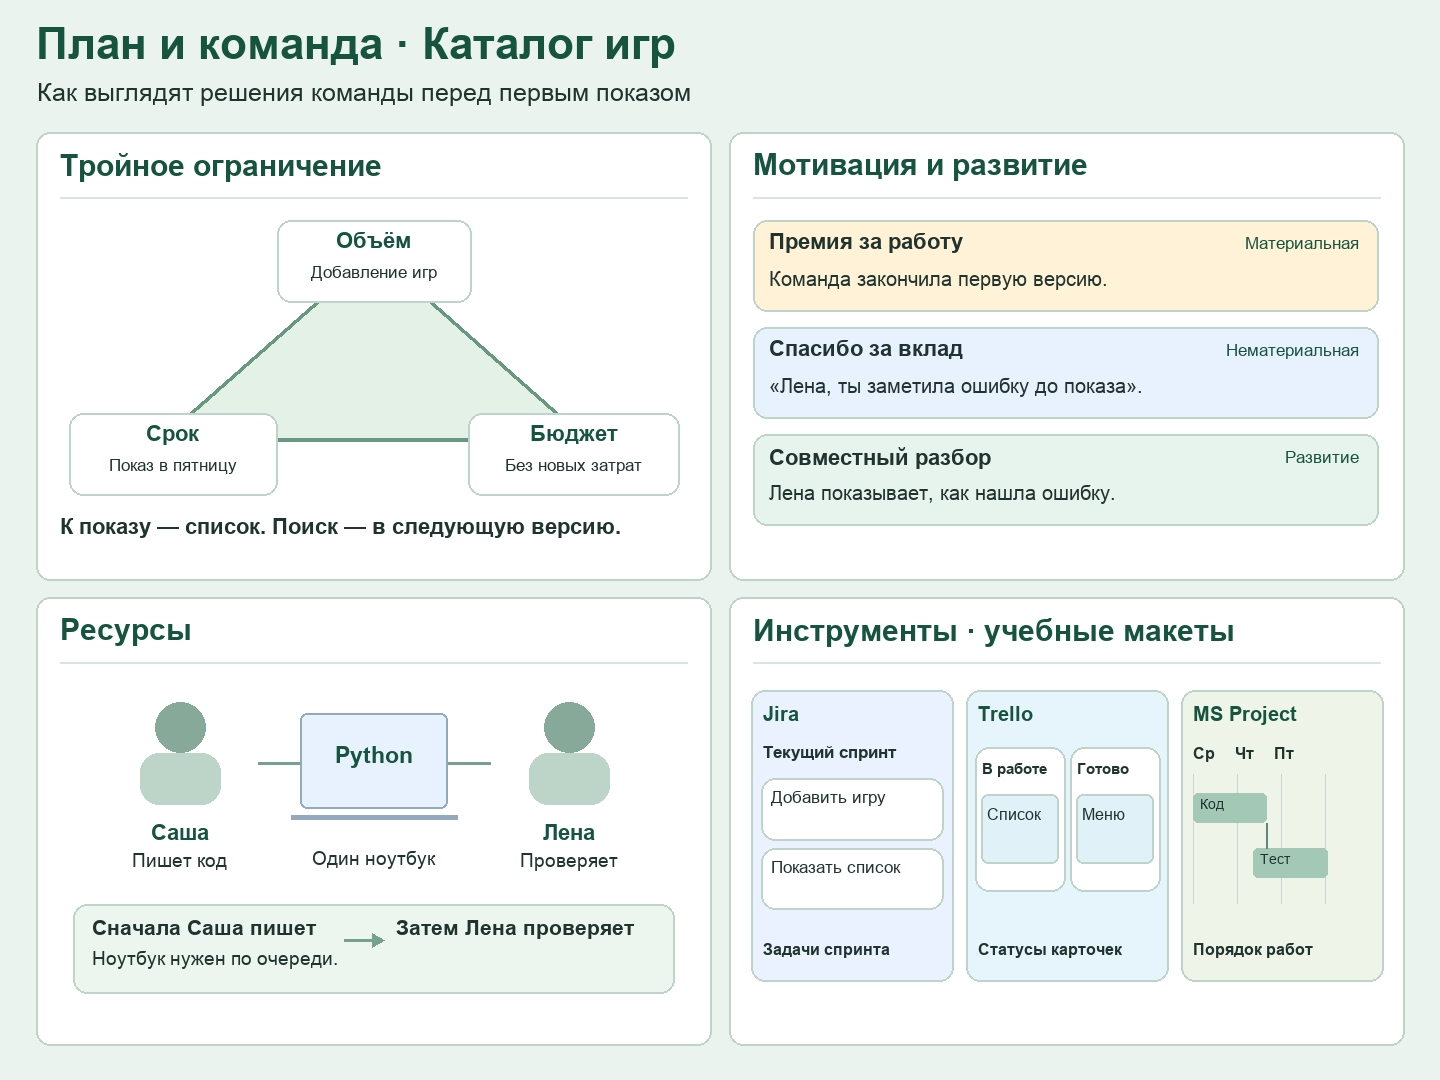
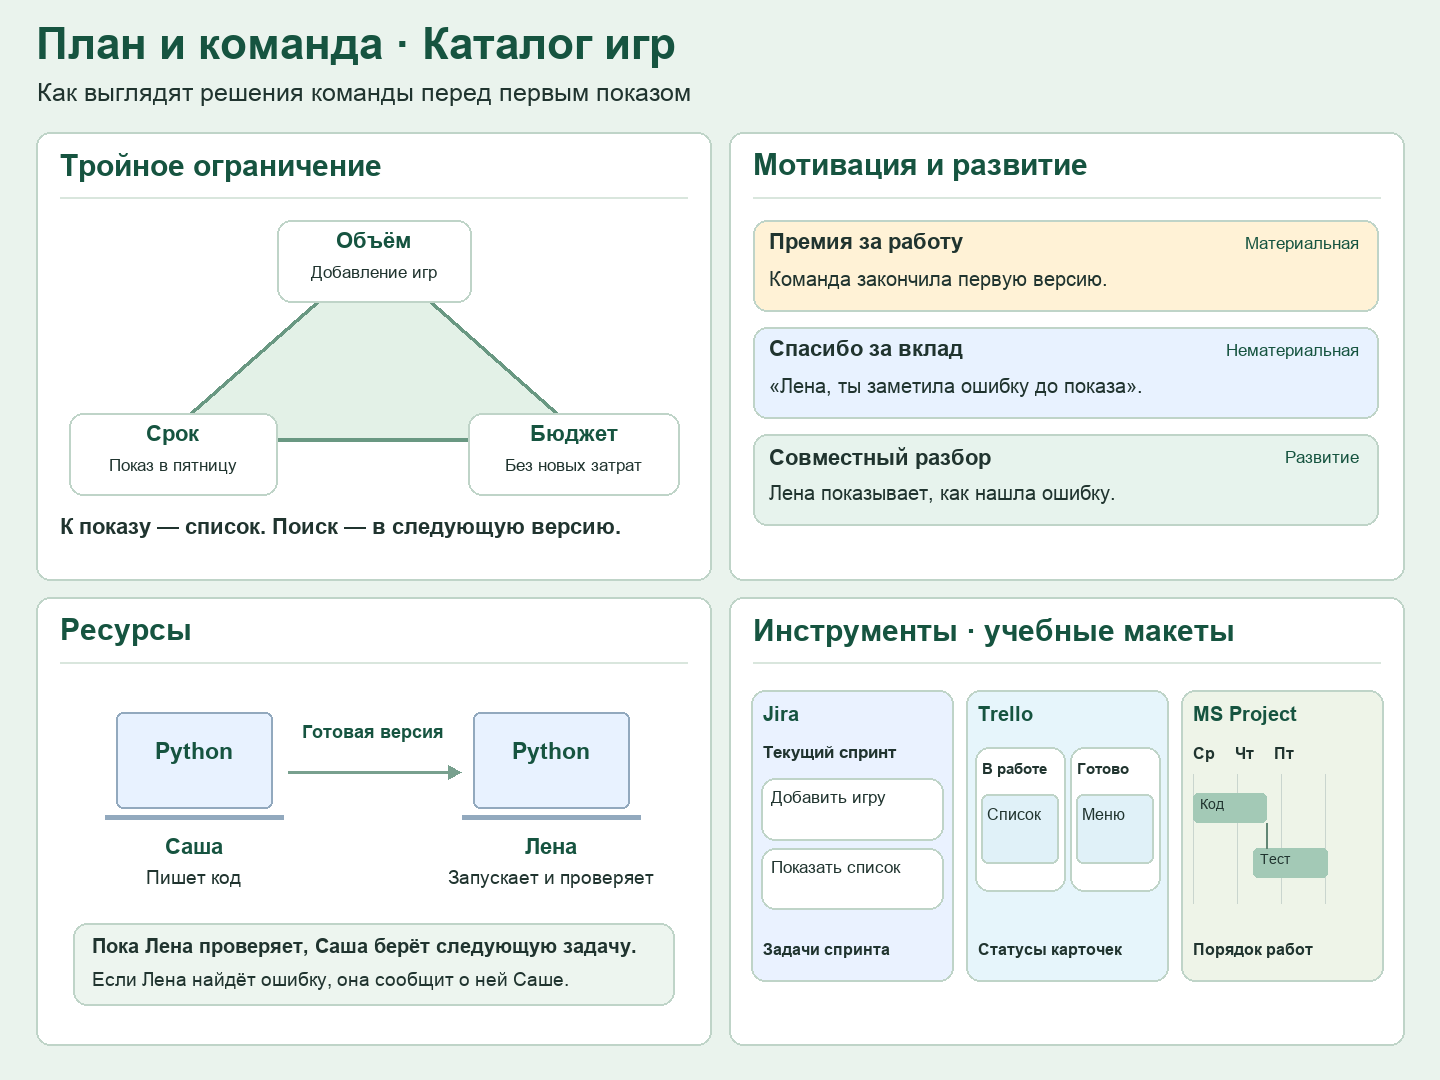
Show development and testing on separate laptops

Changed region(s): [[0.0625, 0.6417, 0.4688, 0.9472]]

diff --git a/Три спринта.md b/Три спринта.md
@@ -10,10 +10,10 @@
 
 - **Тройное ограничение.** Объём работ, сроки и бюджет связаны. Если добавить функцию, надо решить, какие работы отложить, нужно ли больше времени или средств. Например, поиск можно оставить на второй спринт, чтобы сначала показать рабочий список.
 - **Мотивация и развитие команды.** Материальная мотивация — премия, нематериальная — признание вклада или интересная задача. Развитие — обучение и обратная связь. «Люди должны знать, что их работа важна и по достоинству оценивается».
-- **Ресурсы.** Для каждой задачи определите, кто её выполнит, что понадобится и когда. Например, один пишет код, другой запускает программу и проверяет. «В зависимости от проекта и условий его выполнения роли участников проекта могут совмещаться».
+- **Ресурсы.** Для каждой задачи определите, кто её выполнит, что понадобится и когда. Например, Саша пишет код на своём ноутбуке и передаёт готовую версию Лене. Лена запускает её на своём ноутбуке, а Саша может начать следующую задачу. «В зависимости от проекта и условий его выполнения роли участников проекта могут совмещаться».
 - **Инструменты проекта.** Jira — задачи, доски и спринты. Trello — карточки на доске. MS Project — сроки, зависимости и диаграмма Ганта. Для этой практической достаточно списка задач в тетради или документе.
 
-![Каталог игр: треугольник ограничений, примеры мотивации, работа за одним ноутбуком и учебные макеты Jira, Trello и MS Project](Схемы/план-и-команда.png)
+![Каталог игр: треугольник ограничений, примеры мотивации, передача версии между двумя ноутбуками и учебные макеты Jira, Trello и MS Project](Схемы/план-и-команда.png)
 
 ### Спринты, качество и изменения
 
